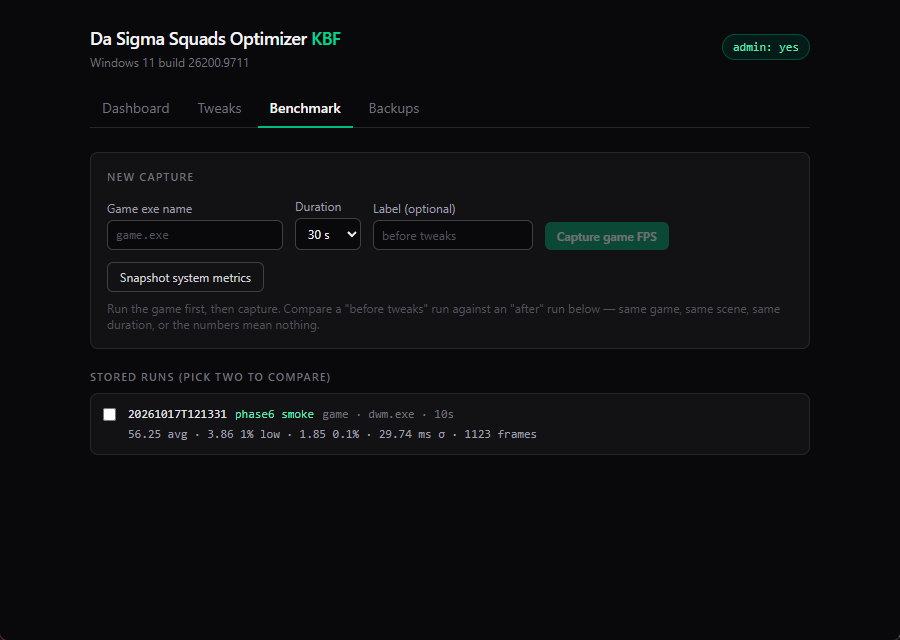
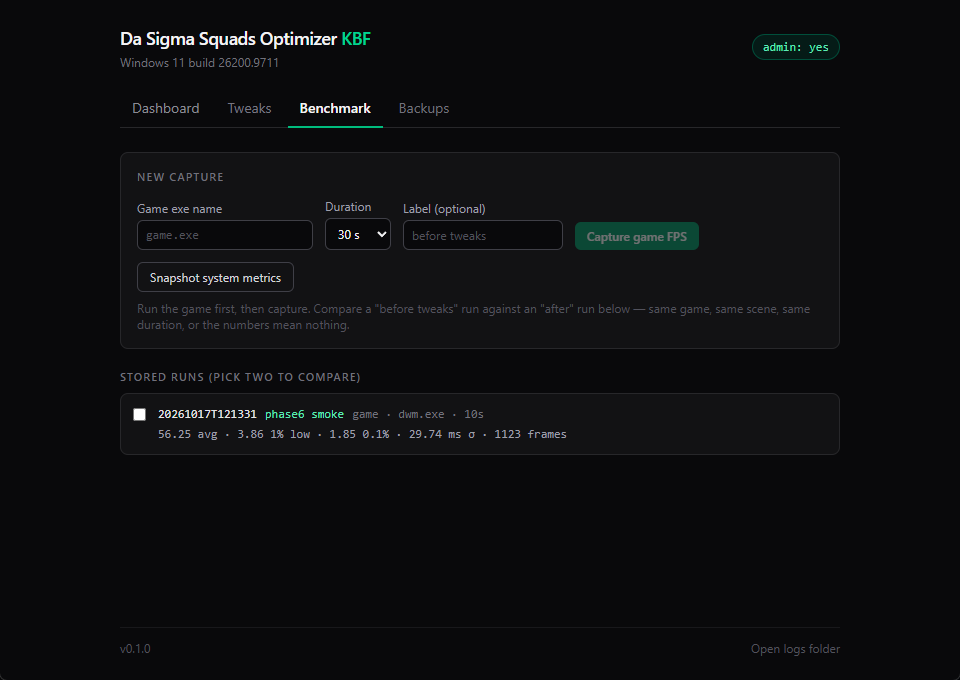
ui: polish pass - states, accessibility, shell, portability-verified
- App shell: window min size 740x560 (layout never collapses), nav aria-current,
  footer with app version + Open logs folder (opener plugin, path fallback)
- Global: themed selection/caret/scrollbars/focus-visible ring (emerald on zinc),
  tabular numerals for data, prefers-reduced-motion respected
- Dashboard: Re-detect button, skeleton loading cards, error state with retry
- Tweaks: already-applied tweaks can no longer be selected (were silently
  skipped - misleading), list-driven scan failures now show the error with a
  retry instead of a false "nothing found", tier descriptions, aria-labels on
  all item checkboxes, unified disabled-button treatment (opacity)
- StartupStatus carries the app version for the footer
- Screenshots recaptured from the polished release build (dashboard, benchmark,
  backups; tweaks shot pending manual capture)
- Portability audit: zero hardcoded paths in src/engine/rust; release layout
  verified to carry engine/ + resources/presentmon/ beside the exe
- Verified: npm build, cargo build/test (22), clippy clean, design detector 0
  findings; NSIS installer rebuilt with the new UI

diff --git a/src/pages/Tweaks.tsx b/src/pages/Tweaks.tsx
@@ -23,6 +23,11 @@ const RISK_LABEL: Record<Risk, string> = {
   caution: "Caution — opt-in",
   advanced: "Advanced — opt-in",
 };
+const RISK_BLURB: Record<Risk, string> = {
+  safe: "Low-risk defaults. Every one is backed up and revertible.",
+  caution: "Worth it in specific setups — read each warning before selecting.",
+  advanced: "Real security or stability tradeoffs. Requires explicit confirmation.",
+};
 
 function StateBadge({ state }: { state: DetectState | "loading" | undefined }) {
   if (state === undefined || state === "loading") {
@@ -46,7 +51,9 @@ export default function Tweaks() {
   const [error, setError] = useState<string | null>(null);
   const [states, setStates] = useState<Record<string, DetectState | "loading">>({});
   const [checked, setChecked] = useState<Record<string, boolean>>({});
-  const [items, setItems] = useState<Record<string, TweakItem[] | "loading">>({});
+  const [items, setItems] = useState<
+    Record<string, TweakItem[] | "loading" | { error: string }>
+  >({});
   const [itemChecks, setItemChecks] = useState<Record<string, Record<string, boolean>>>({});
   const [toggles, setToggles] = useState<Record<string, ToggleInfo | "loading">>({});
   const [toggleChoice, setToggleChoice] = useState<Record<string, ToggleTarget | "">>({});
@@ -75,12 +82,12 @@ export default function Tweaks() {
       .catch((e: unknown) => setError(String(e)));
   }, [refreshStates]);
 
-  const loadItems = (id: string) => {
-    if (items[id]) return;
+  const loadItems = (id: string, force = false) => {
+    if (items[id] && !force) return;
     setItems((m) => ({ ...m, [id]: "loading" }));
     getTweakItems(id)
       .then((list) => setItems((m) => ({ ...m, [id]: list })))
-      .catch(() => setItems((m) => ({ ...m, [id]: [] })));
+      .catch((e: unknown) => setItems((m) => ({ ...m, [id]: { error: String(e) } })));
   };
 
   const loadToggle = (id: string) => {
@@ -196,6 +203,7 @@ export default function Tweaks() {
             <h2 className="text-[11px] font-semibold uppercase tracking-widest text-zinc-500">
               {RISK_LABEL[risk]}
             </h2>
+            <p className="mt-0.5 text-xs text-zinc-600">{RISK_BLURB[risk]}</p>
             <div className="mt-2 space-y-2">
               {group.map((e) => {
                 const m = e.manifest;
@@ -213,8 +221,9 @@ export default function Tweaks() {
                       {!m.list_driven && !m.toggle && (
                         <input
                           type="checkbox"
-                          className="mt-1 accent-emerald-500"
-                          disabled={!e.applicable}
+                          aria-label={`Select ${m.name}`}
+                          className="mt-1 accent-emerald-500 disabled:opacity-40"
+                          disabled={!e.applicable || states[m.id] === "applied"}
                           checked={checked[m.id] ?? false}
                           onChange={(ev) =>
                             setChecked((c) => ({ ...c, [m.id]: ev.target.checked }))
@@ -301,8 +310,24 @@ export default function Tweaks() {
                             {tweakItems === "loading" && (
                               <p className="text-xs text-zinc-600">scanning…</p>
                             )}
+                            {typeof tweakItems === "object" &&
+                              !Array.isArray(tweakItems) &&
+                              tweakItems !== null &&
+                              "error" in tweakItems && (
+                                <p className="text-xs text-red-400">
+                                  Scan failed: {tweakItems.error}{" "}
+                                  <button
+                                    className="text-emerald-400 hover:underline"
+                                    onClick={() => loadItems(m.id, true)}
+                                  >
+                                    retry
+                                  </button>
+                                </p>
+                              )}
                             {Array.isArray(tweakItems) && tweakItems.length === 0 && (
-                              <p className="text-xs text-zinc-600">nothing found</p>
+                              <p className="text-xs text-zinc-600">
+                                Nothing on this machine for this tweak.
+                              </p>
                             )}
                             {Array.isArray(tweakItems) && tweakItems.length > 0 && (
                               <ul className="space-y-1">
@@ -310,7 +335,8 @@ export default function Tweaks() {
                                   <li key={it.id} className="flex items-start gap-2">
                                     <input
                                       type="checkbox"
-                                      className="mt-0.5 accent-emerald-500"
+                                      aria-label={`Select ${it.name}`}
+                                      className="mt-0.5 accent-emerald-500 disabled:opacity-40"
                                       disabled={!it.active}
                                       checked={itemChecks[m.id]?.[it.id] ?? false}
                                       onChange={(ev) =>
@@ -432,7 +458,7 @@ export default function Tweaks() {
                 Cancel
               </button>
               <button
-                className="rounded-md bg-emerald-600 px-3 py-1.5 text-sm font-semibold text-white hover:bg-emerald-500 disabled:bg-zinc-700"
+                className="rounded-md bg-emerald-600 px-3 py-1.5 text-sm font-semibold text-white hover:bg-emerald-500 disabled:cursor-not-allowed disabled:opacity-40"
                 onClick={runApply}
                 disabled={
                   applying ||

diff --git a/src/App.tsx b/src/App.tsx
@@ -1,4 +1,5 @@
 import { useEffect, useState } from "react";
+import { revealItemInDir } from "@tauri-apps/plugin-opener";
 import { getStartupStatus } from "./lib/ipc";
 import type { StartupStatus } from "./lib/types";
 import Backups from "./pages/Backups";
@@ -35,6 +36,7 @@ function AdminBadge({ status }: { status: StartupStatus | null }) {
 export default function App() {
   const [status, setStatus] = useState<StartupStatus | null>(null);
   const [page, setPage] = useState<Page>("dashboard");
+  const [logNote, setLogNote] = useState<string | null>(null);
 
   useEffect(() => {
     getStartupStatus()
@@ -42,12 +44,17 @@ export default function App() {
       .catch(() => setStatus(null));
   }, []);
 
+  const openLogs = () => {
+    if (!status) return;
+    revealItemInDir(status.logDir).catch(() => setLogNote(status.logDir));
+  };
+
   return (
-    <main className="min-h-full bg-zinc-950 text-zinc-100">
-      <div className="mx-auto max-w-3xl px-6 py-6">
-        <header className="flex items-center justify-between">
-          <div>
-            <h1 className="text-lg font-semibold tracking-tight">
+    <main className="flex min-h-full flex-col bg-zinc-950 text-zinc-100">
+      <div className="mx-auto flex w-full max-w-3xl flex-1 flex-col px-6 py-6">
+        <header className="flex items-center justify-between gap-3">
+          <div className="min-w-0">
+            <h1 className="truncate text-lg font-semibold tracking-tight">
               Da Sigma Squads Optimizer <span className="text-emerald-400">KBF</span>
             </h1>
             <p className="mt-0.5 text-xs text-zinc-500">
@@ -57,11 +64,12 @@ export default function App() {
           <AdminBadge status={status} />
         </header>
 
-        <nav className="mt-5 flex gap-1 border-b border-zinc-800">
+        <nav aria-label="Pages" className="mt-5 flex gap-1 border-b border-zinc-800">
           {PAGES.map((p) => (
             <button
               key={p.id}
-              className={`-mb-px border-b-2 px-3 py-2 text-sm ${
+              aria-current={page === p.id ? "page" : undefined}
+              className={`-mb-px border-b-2 px-3 py-2 text-sm transition-colors ${
                 page === p.id
                   ? "border-emerald-500 font-medium text-zinc-100"
                   : "border-transparent text-zinc-500 hover:text-zinc-300"
@@ -73,12 +81,26 @@ export default function App() {
           ))}
         </nav>
 
-        <div className="mt-6 pb-10">
+        <div className="mt-6 flex-1 pb-8">
           {page === "dashboard" && <Dashboard />}
           {page === "tweaks" && <Tweaks />}
           {page === "benchmark" && <Benchmark />}
           {page === "backups" && <Backups />}
         </div>
+
+        <footer className="mt-auto flex items-center justify-between border-t border-zinc-900 pt-3 text-xs text-zinc-600">
+          <span>{status ? `v${status.version}` : ""}</span>
+          <span className="flex items-center gap-2">
+            {logNote && <span className="font-mono text-zinc-500">{logNote}</span>}
+            <button
+              className="hover:text-zinc-400 hover:underline"
+              onClick={openLogs}
+              disabled={!status}
+            >
+              Open logs folder
+            </button>
+          </span>
+        </footer>
       </div>
     </main>
   );

diff --git a/src/pages/Dashboard.tsx b/src/pages/Dashboard.tsx
@@ -41,29 +41,59 @@ function gb(mb: number): string {
   return `${(mb / 1024).toFixed(mb % 1024 === 0 ? 0 : 1)} GB`;
 }
 
+function SkeletonCard() {
+  return (
+    <div className="animate-pulse rounded-lg border border-zinc-800 bg-zinc-900/60 p-4">
+      <div className="h-2.5 w-20 rounded bg-zinc-800" />
+      <div className="mt-4 h-3.5 w-3/4 rounded bg-zinc-800" />
+      <div className="mt-2 h-3 w-1/2 rounded bg-zinc-800/70" />
+    </div>
+  );
+}
+
 export default function Dashboard() {
   const [profile, setProfile] = useState<SystemProfile | null>(null);
   const [error, setError] = useState<string | null>(null);
+  const [refreshing, setRefreshing] = useState(false);
 
-  useEffect(() => {
-    getSystemProfile()
+  const load = (refresh: boolean) => {
+    setError(null);
+    if (refresh) setRefreshing(true);
+    getSystemProfile(refresh)
       .then(setProfile)
-      .catch((e: unknown) => setError(String(e)));
-  }, []);
+      .catch((e: unknown) => setError(String(e)))
+      .finally(() => setRefreshing(false));
+  };
+
+  useEffect(() => load(false), []);
 
   if (error) {
     return (
-      <div className="rounded-lg border border-red-900 bg-red-950/40 p-4 font-mono text-sm text-red-300">
-        Detection failed: {error}
+      <div className="rounded-lg border border-red-900 bg-red-950/40 p-4 text-sm text-red-300">
+        <p className="font-mono">Detection failed: {error}</p>
+        <button
+          className="mt-3 rounded-md border border-red-800 px-3 py-1.5 text-xs text-red-200 hover:bg-red-950"
+          onClick={() => load(true)}
+        >
+          Try again
+        </button>
       </div>
     );
   }
 
   if (!profile) {
     return (
-      <div className="flex items-center gap-3 rounded-lg border border-zinc-800 bg-zinc-900/60 p-4 text-sm text-zinc-500">
-        <span className="h-2 w-2 animate-pulse rounded-full bg-emerald-400" />
-        Profiling this machine…
+      <div>
+        <p className="mb-4 flex items-center gap-2 text-sm text-zinc-500">
+          <span className="h-2 w-2 animate-pulse rounded-full bg-emerald-400" />
+          Profiling this machine…
+        </p>
+        <div className="grid grid-cols-1 gap-4 sm:grid-cols-2">
+          <SkeletonCard />
+          <SkeletonCard />
+          <SkeletonCard />
+          <SkeletonCard />
+        </div>
       </div>
     );
   }
@@ -72,6 +102,18 @@ export default function Dashboard() {
 
   return (
     <div className="grid grid-cols-1 gap-4 sm:grid-cols-2">
+      <div className="flex items-center justify-between sm:col-span-2">
+        <p className="text-xs text-zinc-600">
+          Detected hardware — tweak eligibility is based on this.
+        </p>
+        <button
+          className="rounded-md border border-zinc-700 px-2.5 py-1 text-xs text-zinc-300 hover:bg-zinc-800 disabled:cursor-not-allowed disabled:opacity-40"
+          disabled={refreshing}
+          onClick={() => load(true)}
+        >
+          {refreshing ? "Re-detecting…" : "Re-detect"}
+        </button>
+      </div>
       <Card title="System">
         <p className="text-sm text-zinc-100">
           Windows 11 {os.version} <span className="text-zinc-500">· {os.edition}</span>

diff --git a/src/main.css b/src/main.css
@@ -5,3 +5,54 @@ body,
 #root {
   height: 100%;
 }
+
+/* The parts the browser draws still carry the design. */
+::selection {
+  background: rgb(16 185 129 / 0.35); /* emerald-500 */
+  color: #fafafa;
+}
+
+:focus-visible {
+  outline: 2px solid rgb(16 185 129 / 0.8);
+  outline-offset: 2px;
+  border-radius: 4px;
+}
+
+input,
+select,
+textarea {
+  caret-color: rgb(52 211 153); /* emerald-400 */
+  accent-color: rgb(16 185 129);
+}
+
+* {
+  scrollbar-width: thin;
+  scrollbar-color: rgb(63 63 70) transparent; /* zinc-700 */
+}
+::-webkit-scrollbar {
+  width: 10px;
+  height: 10px;
+}
+::-webkit-scrollbar-thumb {
+  background: rgb(63 63 70);
+  border-radius: 5px;
+  border: 2px solid rgb(9 9 11); /* zinc-950 */
+}
+::-webkit-scrollbar-track {
+  background: transparent;
+}
+
+.font-mono,
+table {
+  font-variant-numeric: tabular-nums;
+}
+
+@media (prefers-reduced-motion: reduce) {
+  *,
+  *::before,
+  *::after {
+    animation-duration: 0.01ms !important;
+    animation-iteration-count: 1 !important;
+    transition-duration: 0.01ms !important;
+  }
+}

diff --git a/src/lib/types.ts b/src/lib/types.ts
@@ -3,6 +3,7 @@
 // snake_case JSON schema from CLAUDE.md.
 
 export interface StartupStatus {
+  version: string;
   elevated: boolean;
   osBuild: number;
   osRevision: number;

diff --git a/src-tauri/src/commands/startup.rs b/src-tauri/src/commands/startup.rs
@@ -4,6 +4,7 @@ use crate::engine::{logging, system};
 pub fn startup_status() -> system::StartupStatus {
     let os = system::os_info();
     system::StartupStatus {
+        version: env!("CARGO_PKG_VERSION").to_string(),
         elevated: system::is_elevated(),
         os_build: os.build,
         os_revision: os.revision,

diff --git a/src-tauri/src/engine/system.rs b/src-tauri/src/engine/system.rs
@@ -9,6 +9,7 @@ pub const MIN_SUPPORTED_BUILD: u32 = 22000;
 #[derive(Debug, Clone, Serialize)]
 #[serde(rename_all = "camelCase")]
 pub struct StartupStatus {
+    pub version: String,
     pub elevated: bool,
     pub os_build: u32,
     pub os_revision: u32,

diff --git a/README.md b/README.md
@@ -15,8 +15,8 @@ Tauri 2 (Rust + React/TypeScript) GUI and a `dsso-cli.exe` console tool, both wr
 ## Screenshots
 
 ![Dashboard](docs/screenshots/dashboard.png)
-![Tweaks](docs/screenshots/tweaks.png)
 ![Benchmark](docs/screenshots/benchmark.png)
+![Backups](docs/screenshots/backups.png)
 
 ## What it tweaks
 
